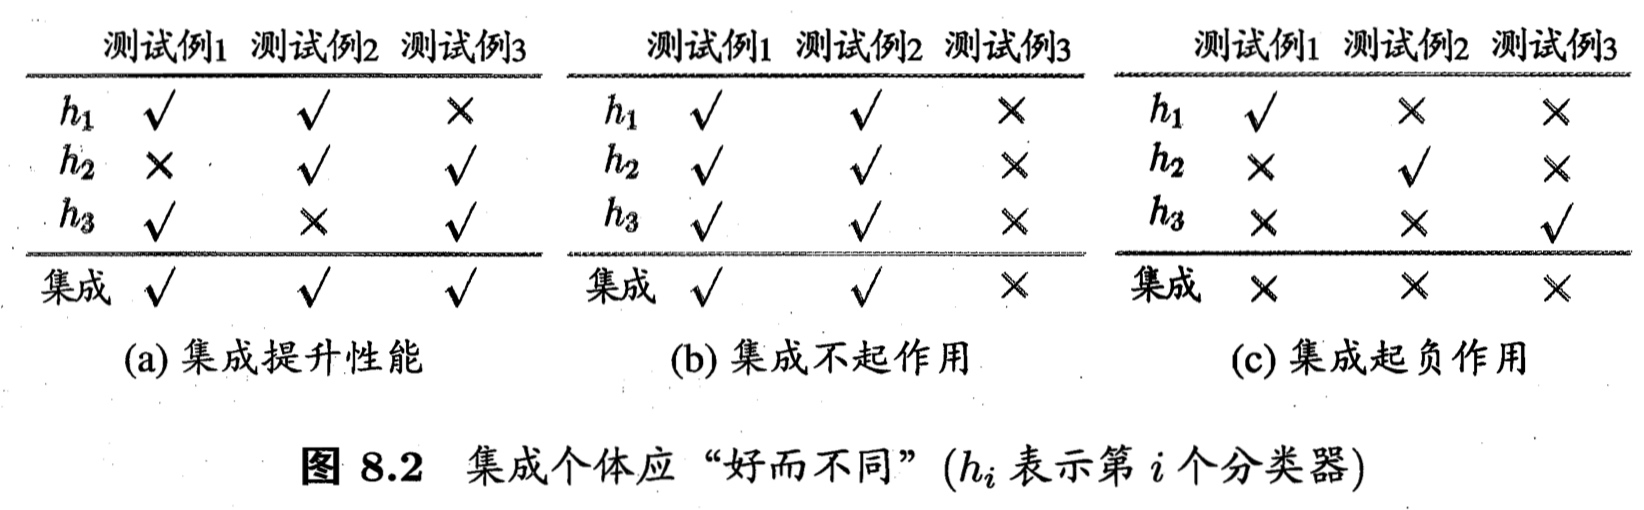
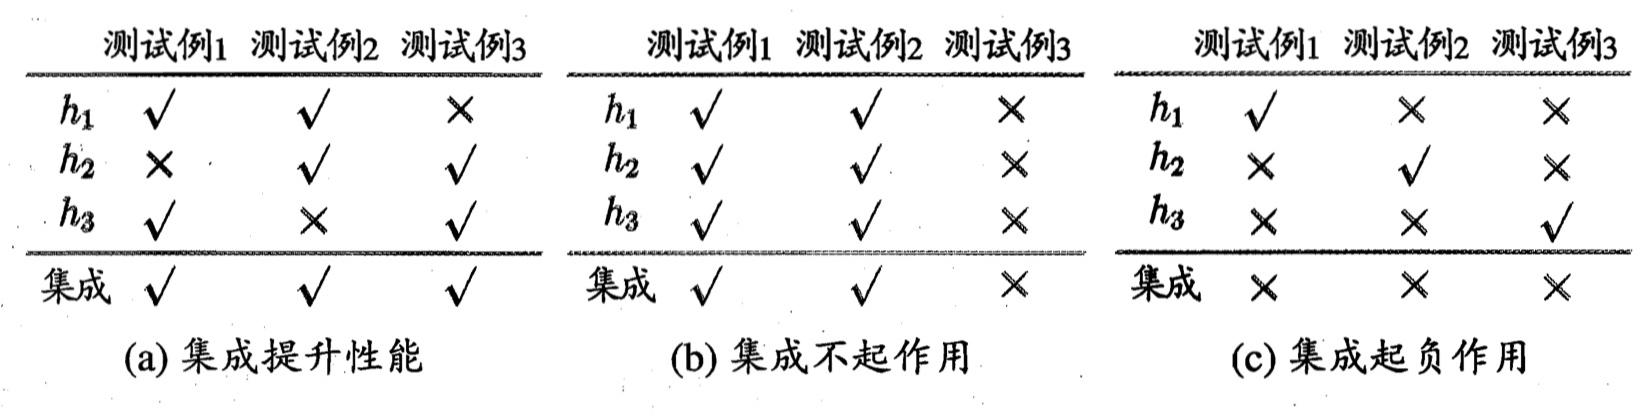
update posts

Changed region(s): [[0.0, 0.0312, 0.9939, 0.75], [0.0621, 0.8125, 0.9318, 0.9688], [0.2485, 0.3125, 0.2795, 0.3438]]

diff --git a/_posts/machine_learning/1_supervised_learning/ensemble_learning/2019-02-08-ensemble-learning.md b/_posts/machine_learning/1_supervised_learning/ensemble_learning/2019-02-08-ensemble-learning.md
@@ -15,8 +15,13 @@ published: true
 
 　　当然这里的强弱学习器的说法是为了说明方便，基学习器的说法比弱学习器（分类的话准确率在 50% 左右的分类器）更准确一些，因为有时候为了能用较少的基学习器组合出好结果，基学习器不一定选用弱学习器而是较强的学习器。值得注意的是若干个基学习器应当具有一定的准确性，同时也需要有一定的多样性，即好而不同，当然准确性和多样性其实是相互矛盾的，需要找到平衡。
 
+
+
 <p align="center">
-<img width="" src="/img/media/15575546857251.jpg">
+<img src="/img/media/15575546857251.jpg" width="600">
+</p>
+<p style="margin-top:-2.5%" align="center">
+    <em style="color:#808080;font-style:normal;font-size:80%;">集成个体应该好而不同</em>
 </p>
 
 　　根据个体学习成器的生成方法，目前的集成学习方法可以分为两大类：
@@ -26,7 +31,7 @@ published: true
 　　我们常说集成学习中的基模型是弱模型，通常来说弱模型是偏差高（在训练集上准确度低）方差小（防止过拟合能力强）的模型，但并不是所有集成学习框架中的基模型都是弱模型。Bagging 和 Stacking 中的基模型为强模型（偏差低，方差高），而 Boosting 中的基模型为弱模型（偏差高，方差低）。
 
 ## 0. 期望和方差
-　　在 Bagging 和 Boosting 框架中，通过计算基学习器的期望和方差我们能得到整体的期望和方差。为了简化模型，假设基学习器期望为 $\mu$，方差为 $\sigma^2$，模型的权重为 $r$，两两模型建的相关系数 $\rho$ 相等。由于 Bagging 和 Boosting 的基学习器都是线性组成的，那么模型总体的期望可以计算为：
+　　在 Bagging 和 Boosting 框架中，通过计算基学习器的期望和方差我们能得到整体的期望和方差。为了简化模型，假设基学习器期望为 $\mu$，方差为 $\sigma^2$，模型的权重为 $r$，两两模型间的相关系数 $\rho$ 相等。由于 Bagging 和 Boosting 的基学习器都是线性组成的，那么模型总体的期望可以计算为：
 
 $$
 \begin{aligned} E(F) &=E\left(\sum_{i}^{m} r_{i} f_{i}\right) \\ &=\sum_{i}^{m} r_{i} E\left(f_{i}\right) \end{aligned}

diff --git a/_posts/coding/leetcode/stack/2020-03-21-(844)-backspace-string-compare.md b/_posts/coding/leetcode/stack/2020-03-21-(844)-backspace-string-compare.md
@@ -1,0 +1,89 @@
+---
+layout: post
+title: 844. Backspace String Compare
+subtitle: Easy
+author: Bin Li
+tags: [Coding, LeetCode, Easy, Stack]
+image: 
+comments: true
+published: true
+---
+
+## Description
+
+Given two strings `S` and `T`, return if they are equal when both are typed into empty text editors. `#` means a backspace character.
+
+**Example 1:**
+
+```
+Input: S = "ab#c", T = "ad#c"
+Output: true
+Explanation: Both S and T become "ac".
+```
+
+**Example 2:**
+
+```
+Input: S = "ab##", T = "c#d#"
+Output: true
+Explanation: Both S and T become "".
+```
+
+**Example 3:**
+
+```
+Input: S = "a##c", T = "#a#c"
+Output: true
+Explanation: Both S and T become "c".
+```
+
+**Example 4:**
+
+```
+Input: S = "a#c", T = "b"
+Output: false
+Explanation: S becomes "c" while T becomes "b".
+```
+
+**Note**:
+
+1. `1 <= S.length <= 200`
+2. `1 <= T.length <= 200`
+3. `S` and `T` only contain lowercase letters and `'#'` characters.
+
+**Follow up:**
+
+- Can you solve it in `O(N)` time and `O(1)` space?
+
+
+## Solutions
+　　找到两个字符在遇到 # 就回退一个的操作后是否相同。
+### 1. Stack
+
+```python
+# Time: O(n)
+# Space: O(n)
+class Solution:
+    def backspaceCompare(self, S: str, T: str) -> bool:
+        s_stack, t_stack = [], []
+        for s in S:
+            if s == '#':
+                if s_stack:
+                    s_stack.pop()
+            else:
+                s_stack.append(s)
+        for t in T:
+            if t == '#':
+                if t_stack:
+                    t_stack.pop()
+            else:
+                t_stack.append(t)
+        return s_stack == t_stack
+
+# 104/104 cases passed (32 ms)
+# Your runtime beats 37.24 % of python3 submissions
+# Your memory usage beats 100 % of python3 submissions (12.8 MB)
+```
+
+## References
+1. [844. Backspace String Compare](https://leetcode.com/problems/backspace-string-compare/description/)

diff --git a/_posts/machine_learning/1_supervised_learning/classification/2019-07-02-softmax-regression.md b/_posts/machine_learning/1_supervised_learning/classification/2019-07-02-softmax-regression.md
@@ -1,7 +1,7 @@
 ---
 layout: post
 title: Softmax Regression
-subtitle:
+subtitle: 
 author: Bin
 tags: [Machine Learning]
 comments: true
@@ -14,3 +14,4 @@ typora-copy-images-to: ../../../img/media
 
 ## References
 1. [Softmax Regression](http://deeplearning.stanford.edu/tutorial/supervised/SoftmaxRegression/)
+2. [Softmax 回归](20. 如何评估员工在试用期间的表现？考核标准是什么？)

diff --git a/_posts/machine_learning/1_supervised_learning/classification/2017-10-03-logistics-regression.md b/_posts/machine_learning/1_supervised_learning/classification/2017-10-03-logistics-regression.md
@@ -230,8 +230,6 @@ LibLinear 是基于信赖域实现的，Spark MLlib 里的逻辑回归是基于 
 * 为什么 LR 需要归一化或者取对数？
     * 归一化：可以提高收敛速度，提高收敛的精度；
 
-## 拓展 Softmax 回归？
-
 ## 5. 总结
 * 核心思想
     * 本质上也是线性模型，简单来看，可以看成是线性回归套了一个 Sigmoid 函数

diff --git a/_posts/machine_learning/model_evaluation/2020-03-15-clustering-metrics.md b/_posts/machine_learning/model_evaluation/2020-03-15-clustering-metrics.md
@@ -1,7 +1,7 @@
 ---
 layout: post
 title: Clustering Metrics
-subtitle: 
+subtitle: 聚类指标
 author: Bin Li
 tags: [Machine Learning]
 image: 
